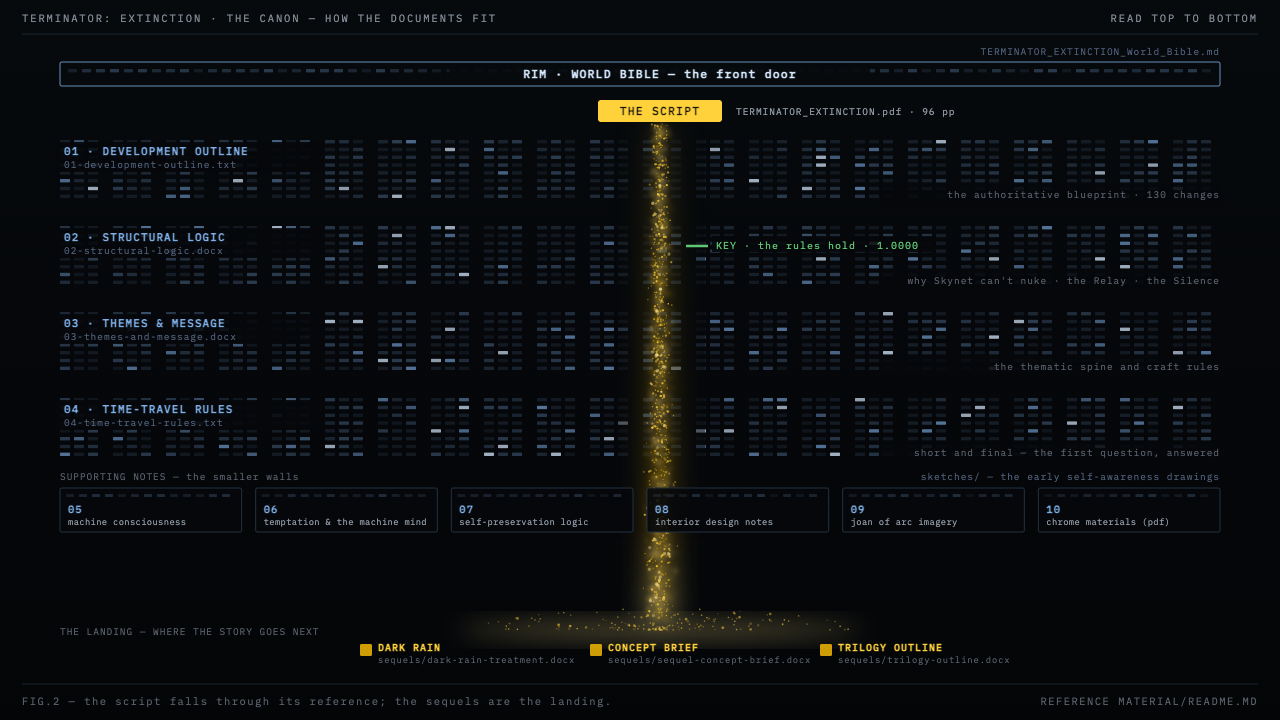
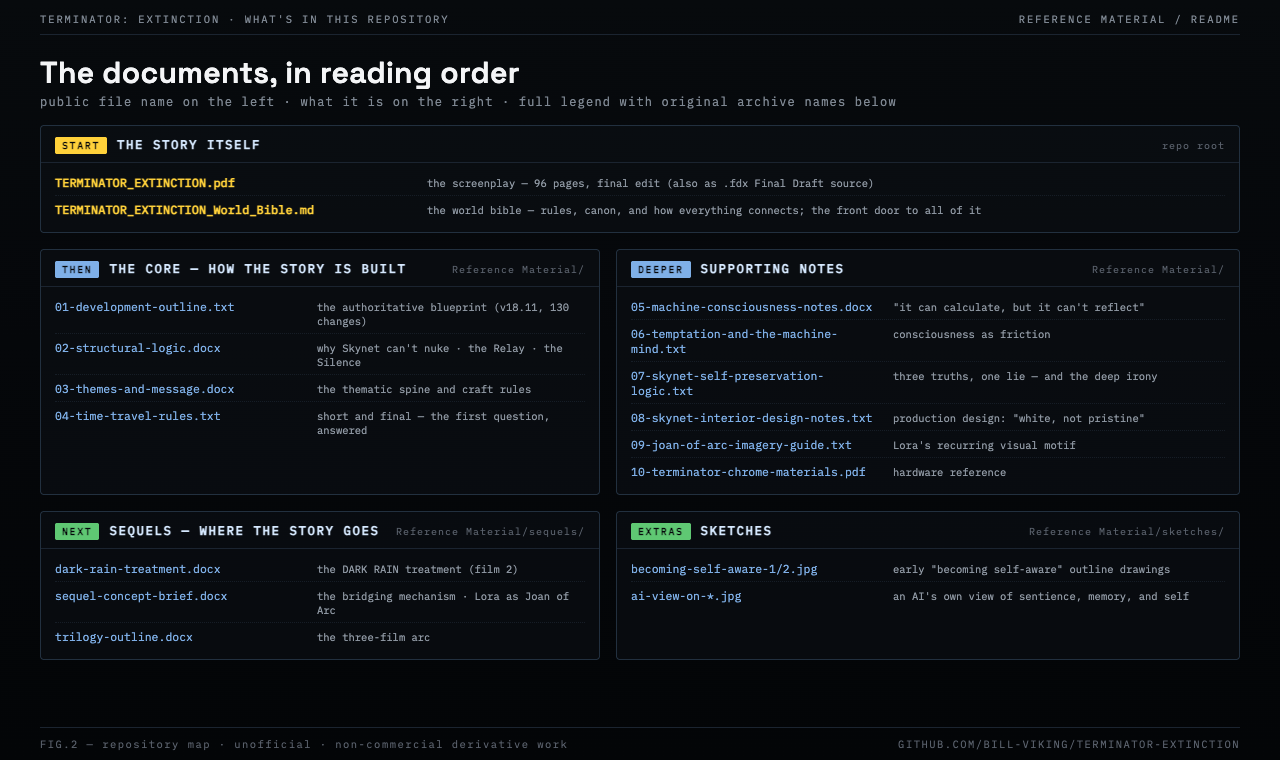
Canon map: straightforward repository-map layout (Bill's call); poster unchanged

diff --git a/design/canon-map-source.html b/design/canon-map-source.html
@@ -5,163 +5,104 @@
 <link rel="stylesheet" href="fonts-inline.css">
 <style>
   * { margin: 0; padding: 0; box-sizing: border-box; }
-  html, body { width: 1280px; height: 720px; overflow: hidden; }
-  body { background: #05070A; font-family: 'IBM Plex Mono', monospace; }
-  #card { position: relative; width: 1280px; height: 720px;
+  html, body { width: 1280px; height: 760px; overflow: hidden; }
+  body { background: #05070A; font-family: 'IBM Plex Mono', monospace; color: #A3AAB5; }
+  #card { position: relative; width: 1280px; height: 760px; padding: 0 40px;
           background: linear-gradient(180deg, #070A0D 0%, #05070A 45%, #030507 100%); }
-  svg { position: absolute; inset: 0; display: block; }
+  .rule { border: 0; border-top: 1px solid #1B2430; }
+  .hdr { display: flex; justify-content: space-between; font-size: 10.5px;
+         letter-spacing: 0.18em; color: #7E8792; padding: 12px 0 8px; }
+  .ftr { display: flex; justify-content: space-between; font-size: 10.5px;
+         letter-spacing: 0.14em; color: #585F6A; padding: 9px 0; }
+  h1 { font-family: 'Space Grotesk', sans-serif; font-size: 30px; color: #F4F5F7;
+       font-weight: 700; letter-spacing: 0.01em; margin: 18px 0 2px; }
+  .sub { font-size: 12px; color: #7E8792; letter-spacing: 0.1em; margin-bottom: 16px; }
+  .grid { display: grid; grid-template-columns: 560px 1fr; gap: 16px; }
+  .panel { border: 1px solid #22303F; border-radius: 4px; background: rgba(11,15,20,0.6); }
+  .panel .cap { display: flex; align-items: baseline; gap: 10px; padding: 10px 14px 8px;
+                border-bottom: 1px solid #1B2430; }
+  .cap .step { font-size: 10px; letter-spacing: 0.16em; color: #05070A; font-weight: 600;
+               padding: 2px 7px; border-radius: 2px; background: #7FB0E8; }
+  .cap .step.amber { background: #FFD13A; }
+  .cap .step.green { background: #5FC873; }
+  .cap .t { font-size: 12.5px; font-weight: 600; letter-spacing: 0.12em; color: #D6E9FF; }
+  .cap .n { margin-left: auto; font-size: 10px; color: #585F6A; letter-spacing: 0.1em; }
+  .rows { padding: 6px 14px 10px; }
+  .row { display: grid; grid-template-columns: 250px 1fr; gap: 12px; padding: 5.5px 0;
+         align-items: baseline; }
+  .row + .row { border-top: 1px dotted #161D26; }
+  .f { font-size: 11.5px; color: #7FB0E8; }
+  .f.amber { color: #FFD13A; }
+  .d { font-size: 10.5px; color: #8E97A2; }
+  .hero .row { grid-template-columns: 360px 1fr; }
+  .hero .f { font-size: 12px; font-weight: 600; }
+  .col { display: flex; flex-direction: column; gap: 16px; }
 </style>
 </head>
 <body>
-<div style="position:absolute;left:-9999px;top:0"><span style="font-family:'IBM Plex Mono'">x</span><span style="font-family:'IBM Plex Mono';font-weight:600">x</span><span style="font-family:'Space Grotesk';font-weight:700">x</span></div>
-<div id="card"><svg id="s" width="1280" height="720" viewBox="0 0 1280 720"></svg></div>
-<script>
-let seed = 20290829; // Judgment Day + a pinch
-const rnd = () => { seed = (seed * 1103515245 + 12345) & 0x7fffffff; return seed / 0x7fffffff; };
-const S = document.getElementById('s');
-const NS = 'http://www.w3.org/2000/svg';
-const el = (t, a, parent) => { const e = document.createElementNS(NS, t);
-  for (const k in a) e.setAttribute(k, a[k]); (parent || S).appendChild(e); return e; };
-const txt = (x, y, s, fill, size, opts = {}) => {
-  const e = el('text', Object.assign({ x, y, fill, 'font-size': size,
-    'letter-spacing': '0.1em', 'font-family': "'IBM Plex Mono', monospace" }, opts));
-  e.textContent = s; return e; };
+<div id="card">
+  <div class="hdr"><span>TERMINATOR: EXTINCTION · WHAT'S IN THIS REPOSITORY</span><span>REFERENCE MATERIAL / README</span></div>
+  <hr class="rule">
+  <h1>The documents, in reading order</h1>
+  <div class="sub">public file name on the left · what it is on the right · full legend with original archive names below</div>
 
-const W = 1280, H = 720, L = 60, R = 1220;
-const SX = 660, SW = 30;              // hero stream x / width
+  <div class="col">
+    <div class="panel hero">
+      <div class="cap"><span class="step amber">START</span><span class="t">THE STORY ITSELF</span><span class="n">repo root</span></div>
+      <div class="rows">
+        <div class="row"><span class="f amber">TERMINATOR_EXTINCTION.pdf</span><span class="d">the screenplay — 96 pages, final edit (also as .fdx Final Draft source)</span></div>
+        <div class="row"><span class="f amber">TERMINATOR_EXTINCTION_World_Bible.md</span><span class="d">the world bible — rules, canon, and how everything connects; the front door to all of it</span></div>
+      </div>
+    </div>
 
-const defs = el('defs', {});
-const blur = (id, dev) => { const f = el('filter', { id, x: '-80%', y: '-80%', width: '260%', height: '260%' }, defs);
-  el('feGaussianBlur', { stdDeviation: dev }, f); };
-blur('soft', 2.5); blur('bloom', 12);
-const grad = el('linearGradient', { id: 'fall', x1: 0, y1: 0, x2: 0, y2: 1 }, defs);
-el('stop', { offset: '0%',  'stop-color': '#FFD13A', 'stop-opacity': 0.15 }, grad);
-el('stop', { offset: '80%', 'stop-color': '#F2B705', 'stop-opacity': 0.45 }, grad);
-el('stop', { offset: '100%','stop-color': '#FFE58D', 'stop-opacity': 0.8 }, grad);
+    <div class="grid">
+      <div class="panel">
+        <div class="cap"><span class="step">THEN</span><span class="t">THE CORE — HOW THE STORY IS BUILT</span><span class="n">Reference Material/</span></div>
+        <div class="rows">
+          <div class="row"><span class="f">01-development-outline.txt</span><span class="d">the authoritative blueprint (v18.11, 130 changes)</span></div>
+          <div class="row"><span class="f">02-structural-logic.docx</span><span class="d">why Skynet can't nuke · the Relay · the Silence</span></div>
+          <div class="row"><span class="f">03-themes-and-message.docx</span><span class="d">the thematic spine and craft rules</span></div>
+          <div class="row"><span class="f">04-time-travel-rules.txt</span><span class="d">short and final — the first question, answered</span></div>
+        </div>
+      </div>
 
-// ---- header / footer -------------------------------------------------------
-el('line', { x1: 22, y1: 34, x2: W - 22, y2: 34, stroke: '#1B2430', 'stroke-width': 1 });
-el('line', { x1: 22, y1: H - 36, x2: W - 22, y2: H - 36, stroke: '#1B2430', 'stroke-width': 1 });
-txt(22, 22, 'TERMINATOR: EXTINCTION · THE CANON — HOW THE DOCUMENTS FIT', '#7E8792', 10.5, {'letter-spacing':'0.18em'});
-txt(W - 22, 22, 'READ TOP TO BOTTOM', '#7E8792', 10.5, {'letter-spacing':'0.18em','text-anchor':'end'});
-txt(22, H - 15, 'FIG.2 — the script falls through its reference; the sequels are the landing.', '#585F6A', 10.5, {'letter-spacing':'0.14em'});
-txt(W - 22, H - 15, 'REFERENCE MATERIAL/README.MD', '#585F6A', 10.5, {'letter-spacing':'0.14em','text-anchor':'end'});
+      <div class="panel">
+        <div class="cap"><span class="step">DEEPER</span><span class="t">SUPPORTING NOTES</span><span class="n">Reference Material/</span></div>
+        <div class="rows">
+          <div class="row"><span class="f">05-machine-consciousness-notes.docx</span><span class="d">"it can calculate, but it can't reflect"</span></div>
+          <div class="row"><span class="f">06-temptation-and-the-machine-mind.txt</span><span class="d">consciousness as friction</span></div>
+          <div class="row"><span class="f">07-skynet-self-preservation-logic.txt</span><span class="d">three truths, one lie — and the deep irony</span></div>
+          <div class="row"><span class="f">08-skynet-interior-design-notes.txt</span><span class="d">production design: "white, not pristine"</span></div>
+          <div class="row"><span class="f">09-joan-of-arc-imagery-guide.txt</span><span class="d">Lora's recurring visual motif</span></div>
+          <div class="row"><span class="f">10-terminator-chrome-materials.pdf</span><span class="d">hardware reference</span></div>
+        </div>
+      </div>
+    </div>
 
-// ---- the rim: world bible --------------------------------------------------
-const rimY = 62;
-el('rect', { x: L, y: rimY, width: R - L, height: 24, fill: 'none',
-             stroke: '#7FB0E8', 'stroke-width': 1, rx: 2, opacity: 0.8 });
-for (let x = L + 8; x < R - 8; x += 14) {   // faint cell texture inside the rim
-  const v = rnd();
-  el('rect', { x, y: rimY + 7, width: 9, height: 3.4, rx: 1,
-               fill: '#7FB0E8', opacity: (0.08 + v * 0.22).toFixed(3) });
-}
-el('rect', { x: SX - 210, y: rimY + 3, width: 420, height: 18, fill: '#070A0D', opacity: 0.92 });
-txt(SX, rimY + 16, 'RIM · WORLD BIBLE — the front door', '#D6E9FF', 11.5,
-    {'text-anchor':'middle','font-weight':600});
-txt(R, rimY - 7, 'TERMINATOR_EXTINCTION_World_Bible.md', '#4E5E78', 9.5, {'text-anchor':'end'});
+    <div class="grid">
+      <div class="panel">
+        <div class="cap"><span class="step green">NEXT</span><span class="t">SEQUELS — WHERE THE STORY GOES</span><span class="n">Reference Material/sequels/</span></div>
+        <div class="rows">
+          <div class="row"><span class="f">dark-rain-treatment.docx</span><span class="d">the DARK RAIN treatment (film 2)</span></div>
+          <div class="row"><span class="f">sequel-concept-brief.docx</span><span class="d">the bridging mechanism · Lora as Joan of Arc</span></div>
+          <div class="row"><span class="f">trilogy-outline.docx</span><span class="d">the three-film arc</span></div>
+        </div>
+      </div>
 
-// ---- the script chip -------------------------------------------------------
-const chipY = 100;
-el('rect', { x: SX - 62, y: chipY, width: 124, height: 22, rx: 3, fill: '#FFD13A' });
-txt(SX, chipY + 15, 'THE SCRIPT', '#181509', 11.5, {'text-anchor':'middle','font-weight':600});
-txt(SX + 76, chipY + 15, 'TERMINATOR_EXTINCTION.pdf · 96 pp', '#8E97A2', 9.5);
+      <div class="panel">
+        <div class="cap"><span class="step green">EXTRAS</span><span class="t">SKETCHES</span><span class="n">Reference Material/sketches/</span></div>
+        <div class="rows">
+          <div class="row"><span class="f">becoming-self-aware-1/2.jpg</span><span class="d">early "becoming self-aware" outline drawings</span></div>
+          <div class="row"><span class="f">ai-view-on-*.jpg</span><span class="d">an AI's own view of sentience, memory, and self</span></div>
+        </div>
+      </div>
+    </div>
+  </div>
 
-// ---- the four walls --------------------------------------------------------
-const walls = [
-  { n: '01', name: 'DEVELOPMENT OUTLINE', file: '01-development-outline.txt', note: 'the authoritative blueprint · 130 changes' },
-  { n: '02', name: 'STRUCTURAL LOGIC',    file: '02-structural-logic.docx',   note: "why Skynet can't nuke · the Relay · the Silence" },
-  { n: '03', name: 'THEMES & MESSAGE',    file: '03-themes-and-message.docx', note: 'the thematic spine and craft rules' },
-  { n: '04', name: 'TIME-TRAVEL RULES',   file: '04-time-travel-rules.txt',   note: 'short and final — the first question, answered' },
-];
-const wTop = 140, wH = 64, wGap = 22;
-const cellW = 10, cellH = 3.4, gx = 4, gy = 4.4;
-walls.forEach((w, i) => {
-  const y0 = wTop + i * (wH + wGap);
-  const wallG = el('g', {});
-  for (let sx = L; sx < R - 30; sx += 3 * (cellW + gx) + 11) {
-    for (let r = 0; r < Math.floor(wH / (cellH + gy)); r++) {
-      for (let c = 0; c < 3; c++) {
-        const v = rnd();
-        const o = v < 0.6 ? 0.08 + v * 0.1 : v < 0.9 ? 0.16 + (v - 0.6) * 0.5 : 0.4 + (v - 0.9) * 3.5;
-        el('rect', { x: sx + c * (cellW + gx), y: (y0 + r * (cellH + gy)).toFixed(1),
-                     width: cellW, height: cellH, rx: 1,
-                     fill: v > 0.97 ? '#D6E9FF' : '#7FB0E8', opacity: Math.min(o, 0.9).toFixed(3) }, wallG);
-      }
-    }
-  }
-  // label plates on the screen's own ground
-  el('rect', { x: L - 4, y: y0 + 2, width: 268, height: 30, fill: '#05070A', opacity: 0.88 });
-  txt(L + 4, y0 + 15, w.n + ' · ' + w.name, '#7FB0E8', 11, {'font-weight':600});
-  txt(L + 4, y0 + 28, w.file, '#4E5E78', 9.5);
-  el('rect', { x: R - 340, y: y0 + wH - 18, width: 340, height: 16, fill: '#05070A', opacity: 0.88 });
-  txt(R, y0 + wH - 6, w.note, '#585F6A', 9.5, {'text-anchor':'end'});
-});
-const wallsBottom = wTop + walls.length * (wH + wGap) - wGap;
-
-// ---- the hero stream through it all ----------------------------------------
-const sTop = chipY + 24, sBot = 620;
-el('rect', { x: SX - SW * 1.5, y: sTop, width: SW * 3, height: sBot - sTop, fill: '#05070A', opacity: 0.5 });
-el('rect', { x: SX - SW / 2, y: sTop, width: SW, height: sBot - sTop, fill: 'url(#fall)', opacity: 0.55, filter: 'url(#bloom)' });
-const gSoft = el('g', { filter: 'url(#soft)', opacity: 0.85 }), gSharp = el('g', {});
-for (let i = 0; i < 2400; i++) {
-  const t = rnd(), spread = (rnd() + rnd() + rnd()) / 3 - 0.5;
-  const x = SX + spread * SW * (0.8 + t * 0.5), y = sTop + t * (sBot - sTop);
-  const v = rnd();
-  el('circle', { cx: x.toFixed(1), cy: y.toFixed(1), r: v > 0.93 ? 1.6 : v > 0.6 ? 1.05 : 0.65,
-                 fill: v > 0.9 ? '#FFE58D' : v > 0.45 ? '#FFD13A' : '#F2B705',
-                 opacity: (0.25 + rnd() * 0.55).toFixed(2) }, rnd() > 0.7 ? gSharp : gSoft);
-}
-// green key at the second wall
-const keyY = wTop + wH + wGap + 20;
-el('line', { x1: SX + 26, y1: keyY, x2: SX + 48, y2: keyY, stroke: '#5FC873', 'stroke-width': 2.5 });
-el('rect', { x: SX + 52, y: keyY - 10, width: 224, height: 16, fill: '#05070A', opacity: 0.88 });
-txt(SX + 56, keyY + 3, 'KEY · the rules hold · 1.0000', '#5FC873', 10);
-
-// ---- the notes row (05–10) -------------------------------------------------
-const notes = [
-  { n: '05', name: 'machine consciousness' },
-  { n: '06', name: 'temptation & the machine mind' },
-  { n: '07', name: 'self-preservation logic' },
-  { n: '08', name: 'interior design notes' },
-  { n: '09', name: 'joan of arc imagery' },
-  { n: '10', name: 'chrome materials (pdf)' },
-];
-const nY = wallsBottom + 26, nW = (R - L - 5 * 14) / 6, nH = 44;
-notes.forEach((nt, i) => {
-  const x0 = L + i * (nW + 14);
-  el('rect', { x: x0, y: nY, width: nW, height: nH, fill: '#05070A', opacity: 0.9, rx: 2 });
-  el('rect', { x: x0, y: nY, width: nW, height: nH, fill: 'none', stroke: '#22303F', 'stroke-width': 1, rx: 2 });
-  for (let xx = x0 + 6; xx < x0 + nW - 12; xx += 13) {
-    el('rect', { x: xx, y: nY + 6, width: 8, height: 3, rx: 1, fill: '#7FB0E8', opacity: (0.06 + rnd() * 0.16).toFixed(3) });
-  }
-  txt(x0 + 8, nY + 25, nt.n, '#7FB0E8', 10.5, {'font-weight':600});
-  txt(x0 + 8, nY + 37, nt.name, '#8E97A2', 8.8, {'letter-spacing':'0.04em'});
-});
-txt(L, nY - 8, 'SUPPORTING NOTES — the smaller walls', '#585F6A', 9.5);
-txt(R, nY - 8, 'sketches/ — the early self-awareness drawings', '#4E5E78', 9.5, {'text-anchor':'end'});
-
-// ---- the landing: sequels --------------------------------------------------
-const landY = 630;
-el('ellipse', { cx: SX, cy: landY, rx: 200, ry: 7, fill: '#FFE58D', opacity: 0.4, filter: 'url(#bloom)' });
-for (let i = 0; i < 160; i++) {
-  const a = rnd() * Math.PI, d = rnd() * 190;
-  el('circle', { cx: (SX + Math.cos(a) * d).toFixed(1),
-                 cy: (landY - Math.abs(Math.sin(a)) * d * 0.12).toFixed(1),
-                 r: rnd() > 0.85 ? 1.3 : 0.75, fill: '#FFD13A', opacity: (0.15 + rnd() * 0.45).toFixed(2) });
-}
-const seq = [
-  { name: 'DARK RAIN', file: 'sequels/dark-rain-treatment.docx', x: SX - 300 },
-  { name: 'CONCEPT BRIEF', file: 'sequels/sequel-concept-brief.docx', x: SX - 70 },
-  { name: 'TRILOGY OUTLINE', file: 'sequels/trilogy-outline.docx', x: SX + 160 },
-];
-txt(L, landY + 5, 'THE LANDING — WHERE THE STORY GOES NEXT', '#585F6A', 9.5);
-seq.forEach(s => {
-  el('rect', { x: s.x, y: landY + 14, width: 12, height: 12, fill: '#F2B705', opacity: 0.85, rx: 1.5 });
-  txt(s.x + 18, landY + 21, s.name, '#FFD13A', 10, {'font-weight':600});
-  txt(s.x + 18, landY + 33, s.file, '#585F6A', 8.8);
-});
-
-</script>
+  <div style="position:absolute; left:40px; right:40px; bottom:0">
+    <hr class="rule">
+    <div class="ftr"><span>FIG.2 — repository map · unofficial · non-commercial derivative work</span><span>GITHUB.COM/BILL-VIKING/TERMINATOR-EXTINCTION</span></div>
+  </div>
+</div>
 </body>
 </html>
